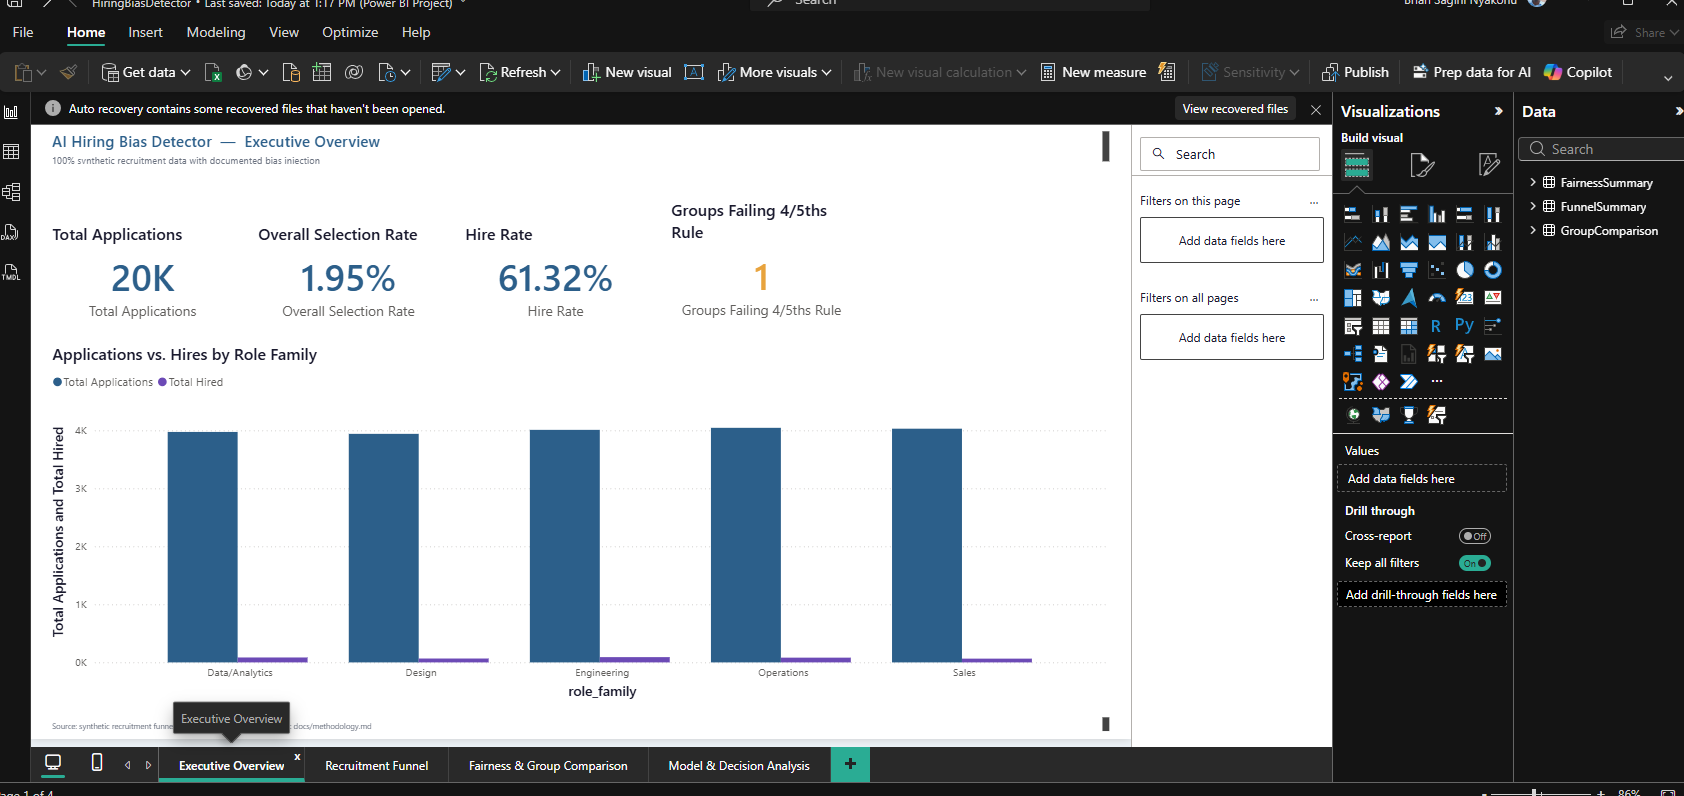
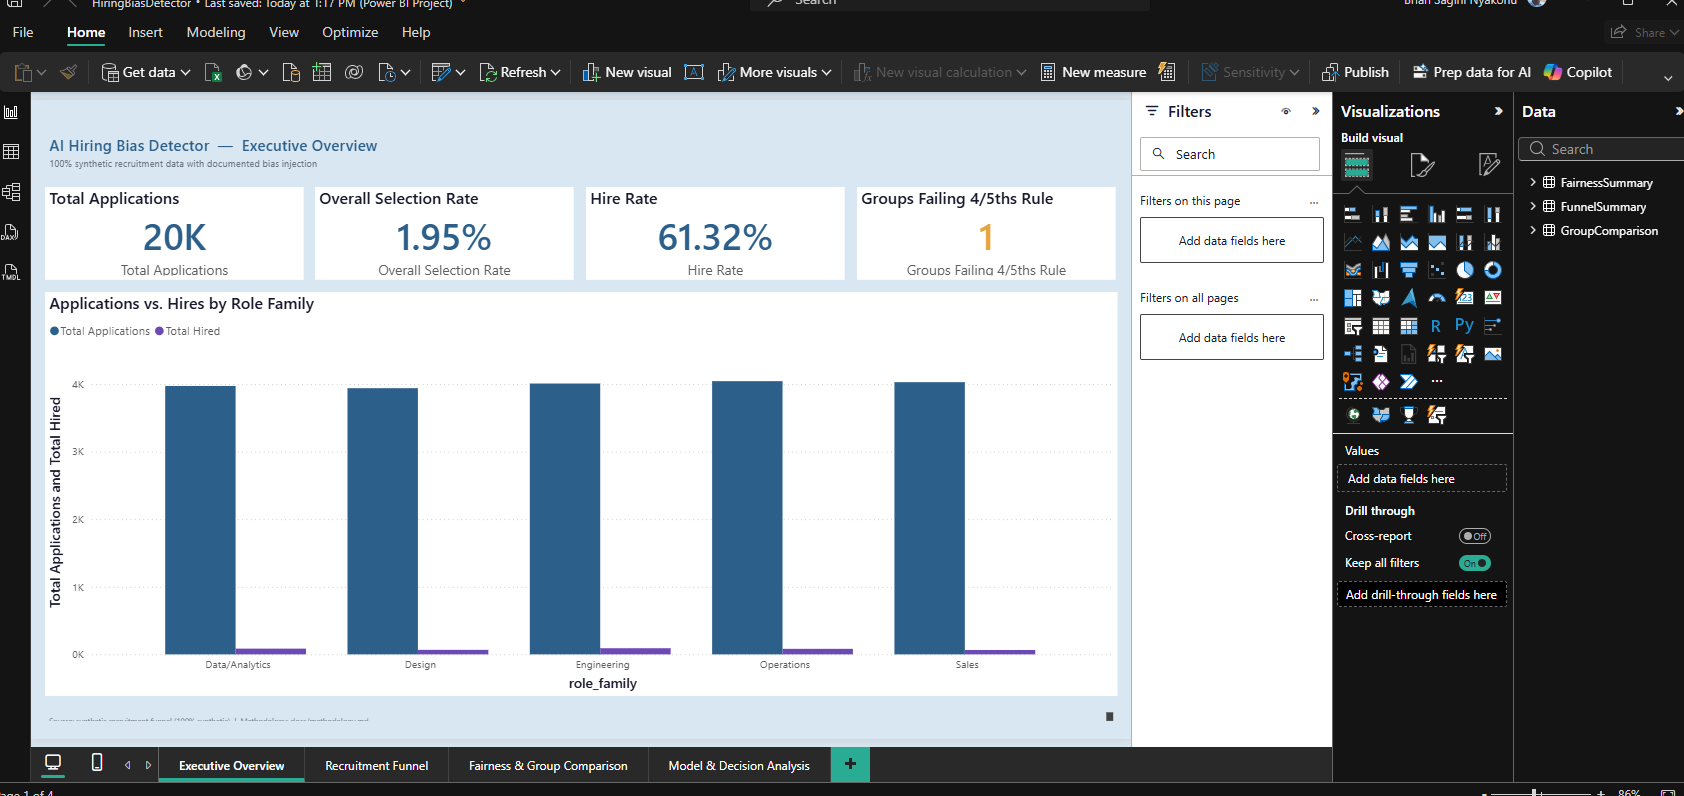
Tighten layout, fix canvas background, verify all pages in Desktop
Redid every page onto a dense 16px-margin/14px-gutter grid. Fixed the
canvas background and card accent colors the same way as Climate/Dark
Store (visualStyles.page.*.background, not outspace; objects.labels, not
dataPoint) and rebuilt report.json from Climate's proven-correct
structure. All 4 pages reopened and confirmed rendering correctly, with
demographic-group fairness still never color-coded.

diff --git a/docs/powerbi_guide.md b/docs/powerbi_guide.md
@@ -34,6 +34,16 @@ charts use `Function: 1` (Average) on the raw column deliberately — the guide'
 to re-derive an already-SQL-computed rate in DAX still holds; the Average wrapper exists only to
 satisfy the chart's aggregation requirement, and is a no-op given one row per category.
 
+**Round 5 (this one)**: tightened every page's layout to a dense 16px-margin/14px-gutter grid, and
+fixed the canvas background and card accent colors — `visualStyles.*.*.outspace` doesn't actually
+control the page canvas (confirmed via Desktop's own theme customizer; the real property is
+`visualStyles.page.*.background`), and cards need `objects.labels[0].properties.color`, not
+`dataPoint` (confirmed via Desktop's own save after setting a card's color through Format →
+Callout value → Color). `report.json` was also rebuilt from Climate's proven-correct structure
+(older schema version and a missing base-theme resourcePackage entry, both silently tolerated
+until this round's newer theme feature tripped a hard load error). All 4 pages reopened and
+confirmed rendering correctly.
+
 ## Data connectivity
 
 Get Data → Database → PostgreSQL database → `localhost:5433` / `analytics` / `analytics_ro`
@@ -72,18 +82,24 @@ group itself). The theme's `dataColors` sequence leads with the neutral qualitat
 sequence (Blue, Purple `#6C4AB6`, Teal, Slate `#64748B`) precisely so any chart that ends up
 color-differentiating by group falls back to those, not amber/red, by construction.
 
-**Background**: a pale blue-tinted canvas `#EDF3F8` behind white visual containers — same
-reasoning as Climate's (see that project's guide for the 3 options weighed).
+**Background**: a pale blue-tinted canvas `#D8E7F2` behind white visual containers. Set via
+`HiringBiasTheme.json`'s `visualStyles.page.*.background` — **not** `outspace`, which doesn't
+control the canvas (see Status above for how that was confirmed).
 
 **Per-visual accent colors**: applied *only* to compliance-indicator metrics, never to a
 demographic group — Groups Failing 4/5ths Rule card, Adverse Impact Ratio by Group, and Selection
 Rate Difference vs. Reference Group → warning amber (all bars in a uniform amber, since the metric
 itself is the thing being flagged, not any one group). Selection Rate by Group and the funnel
 charts are left theme-driven, using the neutral group sequence above — no group is ever singled
-out in red/green.
+out in red/green. The amber card uses `objects.labels[0].properties.color` (not `dataPoint` — see
+Status above); the amber charts use each chart's own `dataPoint.defaultColor`.
 
 **Header/footer**: every page gets a themed header and footer as real `textbox` visuals,
 including a synthetic-data disclosure in the header badge.
+
+**Layout**: a standard dense grid — 16px canvas margin, 14px gutter between visuals, visuals
+resized to fill their row/column exactly. Before this pass, pages covered 78–83% of the canvas by
+visual area; after, 87–88%.
 
 ## Visual inventory
 
@@ -94,22 +110,22 @@ Every visual below is a real object in `powerbi/HiringBiasDetector.Report/defini
 - Overall Selection Rate — Card — `FunnelSummary[Overall Selection Rate]`
 - Hire Rate — Card — `FunnelSummary[Hire Rate]`
 - Groups Failing 4/5ths Rule — Card — `GroupComparison[Groups Failing 4/5ths Rule]`
-- Applications vs. Hires by Role Family — Clustered column chart — Category `FunnelSummary[role_family]`, Y `FunnelSummary[total_applications]`, `FunnelSummary[reached_hire]`
+- Applications vs. Hires by Role Family — Clustered column chart — Category `FunnelSummary[role_family]`, Y `FunnelSummary[Total Applications]`, `FunnelSummary[Total Hired]`
 
 **Page 2 — Recruitment Funnel**
-- Funnel Stage Totals by Role Family — Clustered column chart — Category `FunnelSummary[role_family]`, Y all 5 stage totals
+- Funnel Stage Totals by Role Family — Clustered column chart — Category `FunnelSummary[role_family]`, Y all 5 stage-total measures
 - Funnel Detail — Table — `FunnelSummary[role_family]` + all 5 stage totals
 
 **Page 3 — Fairness & Group Comparison**
-- Selection Rate by Group — Clustered column chart — Category `GroupComparison[group_value]`, Y `GroupComparison[selection_rate]`
-- Adverse Impact Ratio by Group — Clustered column chart — Category `GroupComparison[group_value]`, Y `GroupComparison[adverse_impact_ratio]`
+- Selection Rate by Group — Clustered column chart — Category `GroupComparison[group_value]`, Y `GroupComparison[selection_rate]` (Average aggregation)
+- Adverse Impact Ratio by Group — Clustered column chart — Category `GroupComparison[group_value]`, Y `GroupComparison[adverse_impact_ratio]` (Average aggregation)
 - Group Comparison Detail — Table — attribute, group, stage, selection rate, adverse-impact ratio, fails-4/5ths flag
 
 **Page 4 — Model & Decision Analysis** *(real fields, but not yet the coefficients page — see Status)*
-- Selection Rate Difference vs. Reference Group — Clustered column chart — Category `GroupComparison[group_value]`, Y `GroupComparison[rate_difference]`
+- Selection Rate Difference vs. Reference Group — Clustered column chart — Category `GroupComparison[group_value]`, Y `GroupComparison[rate_difference]` (Average aggregation)
 - Fairness Detail — Table — `FairnessSummary[group_attribute]`, `[group_value]`, `[stage]`, `[total_at_risk]`, `[passed]`, `[reference_selection_rate]`
 
-**Total: 12 visuals across 4 pages.**
+**Total: 20 visuals across 4 pages** (12 data visuals + a header and footer text box per page).
 
 **Never add a per-candidate table or score to this report.**
 
